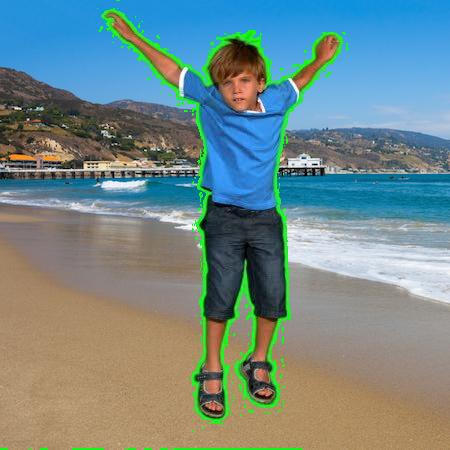
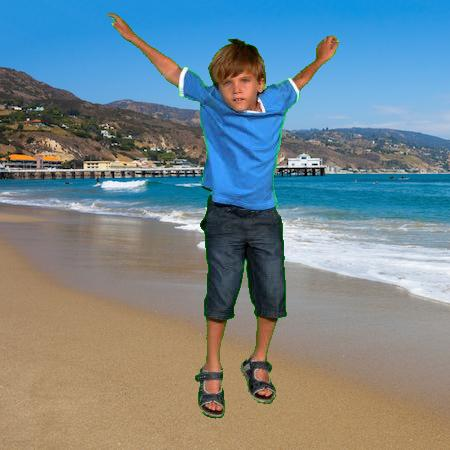
made better

diff --git a/colour_helper.py b/colour_helper.py
@@ -14,5 +14,5 @@ def pixel_to_string(pixel: tuple) -> str:
     """
     r, g, b = pixel
 
-    if g > 250 and r < 32 and b < 32:
+    if g > 125 and r < 100 and b < 100:
         return "green"
